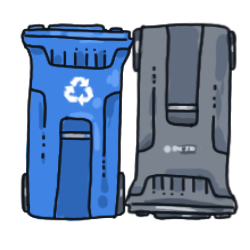
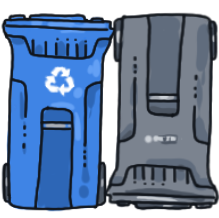
fixed background and player sprite

diff --git a/UbiGame/Source/Game/GameBoard.cpp b/UbiGame/Source/Game/GameBoard.cpp
@@ -26,7 +26,7 @@ GameBoard::GameBoard()
 	GameEngine::StateManager::GetInstance()->state
 		->AddEntity(m_player);
 	m_player->SetPos(sf::Vector2f(GameEngine::WINDOW_WIDTH / 2.0, GameEngine::WINDOW_HEIGHT / 2.0));
-	m_player->SetSize(sf::Vector2f(272.5f, 162.5f));
+	m_player->SetSize(sf::Vector2f(219.0f, 218.0f));
 	
 	//sf::String testString = "I hope this works.";
 	//GameEngine::StateManager::GetInstance()->state->AddEntity(m_text);
@@ -134,32 +134,6 @@ void GameBoard::SpawnNewRandomProjectiles()
 }
 
 
-/* void GameBoard::SpawnNewRandomTiledObstacles()
-{
-	static int minObstacleCount = 2;
-	static int maxObstacleCount = 7;
-
-	static float minNextSpawnTime = 0.3f;
-	static float maxNextSpawnTime = 0.7f;
-
-	static float minObstacleXPos = 350.f;
-	static float maxObstacleXPos = 450.f;
-	static float minObstacleYPos = 20.f;
-	static float maxObstacleYPos = 450.f;
-
-	sf::Vector2f pos = sf::Vector2f(MathHelpers::RandFloatIn(minObstacleXPos, maxObstacleXPos), MathHelpers::RandFloatIn(minObstacleYPos, maxObstacleYPos));	
-	sf::Vector2f size = sf::Vector2f(32.f, 32.f);
-
-	int obstacleCount = (int)MathHelpers::RandFloatIn((float)minObstacleCount, (float)maxObstacleCount);
-	for (int a = 0; a < obstacleCount; ++a)
-	{
-		SpawnNewObstacle(pos, size);
-		pos.y += size.y;
-	}
-
-	m_lastObstacleSpawnTimer = MathHelpers::RandFloatIn(minNextSpawnTime, maxNextSpawnTime);
-} */
-
 void GameBoard::SpawnNewRandomTrash()
 {
 	static int minTrashCount = 1;
@@ -211,10 +185,10 @@ void GameBoard::CreateBackGround()
 	GameEngine::Entity* bgEntity = new GameEngine::Entity();
 	GameEngine::SpriteRenderComponent* render = static_cast<GameEngine::SpriteRenderComponent*>
 		(bgEntity->AddComponent<GameEngine::SpriteRenderComponent>());
-	render->SetTexture(GameEngine::eTexture::Particles);
+	render->SetTexture(GameEngine::eTexture::BG);
 	render->SetZLevel(0);
-	bgEntity->SetPos(sf::Vector2f(250.f, 250.f));
-	bgEntity->SetSize(sf::Vector2f(500.f, 500.f));
+	bgEntity->SetPos(sf::Vector2f(400.f, 400.f));
+	bgEntity->SetSize(sf::Vector2f(800.f, 800.f));
 	GameEngine::StateManager::GetInstance()->state
 		->AddEntity(bgEntity);
 

diff --git a/UbiGame/Source/GameEngine/Util/TextureManager.h b/UbiGame/Source/GameEngine/Util/TextureManager.h
@@ -59,9 +59,9 @@ namespace TextureHelper
 	{
 		switch (texture)
 		{
-		case  GameEngine::eTexture::Player:  return sf::Vector2f(109, 65);
-		case  GameEngine::eTexture::Tileset: return sf::Vector2f(32.f, 32.f);
-		case  GameEngine::eTexture::BG:	     return sf::Vector2f(500.f, 500.f);
+		case  GameEngine::eTexture::Player:  return sf::Vector2f(219, 218);
+		case  GameEngine::eTexture::Tileset: return sf::Vector2f(50.f, 50.f);
+		case  GameEngine::eTexture::BG:	     return sf::Vector2f(800.f, 800.f);
 		case  GameEngine::eTexture::Particles: return sf::Vector2f(31.f, 32.f);
 		default:							 return sf::Vector2f(-1.f, -1.f);
 		}
